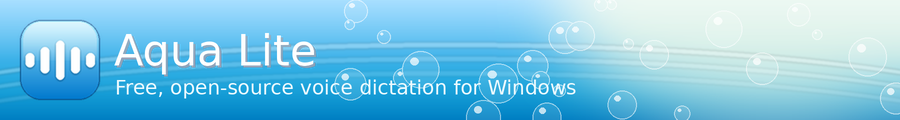
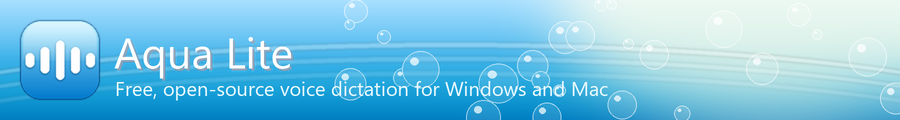
2.0 New Generation Update: one-step Mac install, Mac download in releases
- install-mac.sh sets up Python 3.12 from python.org when it's missing, can run
  on its own (curl | bash fetches the Mac download), and has a CI mode.
- Install Aqua Lite.command: double-click installer in the Mac download.
- Release workflow builds AquaLite-Mac.zip and uploads fixed-name copies
  (AquaLite-Setup.exe, AquaLite-Mac.zip) so the README buttons never 404.
- Mac check workflow runs the installer and self-test on GitHub's macOS runner.
- README: Windows and Mac download buttons; banner mentions Mac.

Changed region(s): [[0.1244, 0.275, 0.6844, 0.825]]

diff --git a/docs/make_images.py b/docs/make_images.py
@@ -10,7 +10,8 @@ from aqualite import aero, skin  # noqa: E402
 
 
 def banner():
-    aero.sky_banner(900, 120, subtitle="Free, open-source voice dictation for Windows").save(os.path.join(HERE, "banner.png"))
+    aero.sky_banner(900, 120, subtitle="Free, open-source voice dictation for Windows and Mac").save(
+        os.path.join(HERE, "banner.png"))
 
 
 def flow_bar():
@@ -36,13 +37,12 @@ def flow_bar():
     bg.save(os.path.join(HERE, "flow-bar.png"))
 
 
-def download_button():
-    """The README's download button: the app's own glossy aqua button, drawn at 2x for sharp screens."""
+def download_button(text="Download for Windows", name="download.png"):
+    """A README download button: the app's own glossy aqua button, drawn at 2x for sharp screens."""
     from PIL import Image, ImageDraw, ImageFilter
     w, h = 600, 120
     img = skin.button(w, h, "normal", primary=True)
     font = aero._font_px(40)
-    text = "Download for Windows"
     tw = font.getlength(text)
     icon = 34
     x = (w - (icon + 22 + tw)) / 2
@@ -60,11 +60,12 @@ def download_button():
     shade.putalpha(words.getchannel("A").point(lambda v: v * 150 // 255).filter(ImageFilter.GaussianBlur(1.5)))
     img.alpha_composite(shade, (0, 2))
     img.alpha_composite(words)
-    img.save(os.path.join(HERE, "download.png"))
+    img.save(os.path.join(HERE, name))
 
 
 if __name__ == "__main__":
     banner()
     flow_bar()
     download_button()
-    print("docs/banner.png, docs/flow-bar.png and docs/download.png updated")
+    download_button("Download for Mac", "download-mac.png")
+    print("docs/banner.png, docs/flow-bar.png, docs/download.png and docs/download-mac.png updated")

diff --git a/README.md b/README.md
@@ -2,15 +2,17 @@
 
 # Aqua Lite
 
-Free, open-source voice dictation for Windows, in a classic Frutiger Aero look or clear Liquid Glass.
-Hold **Ctrl + Win**, speak, let go: clean, punctuated text appears wherever your cursor is, in WhatsApp, Gmail, Slack, Word, VS Code, ChatGPT or any other app.
+Free, open-source voice dictation for Windows and Mac, in a classic Frutiger Aero look or clear Liquid Glass.
+Hold **Ctrl + Win** (on a Mac, **Fn**), speak, let go: clean, punctuated text appears wherever your cursor is, in WhatsApp, Gmail, Slack, Word, VS Code, ChatGPT or any other app.
 
 <p align="center">
   <a href="https://github.com/undeadhuman37/aqua-lite/releases/latest/download/AquaLite-Setup.exe">
-    <img src="docs/download.png" alt="Download for Windows" width="300">
-  </a>
+    <img src="docs/download.png" alt="Download for Windows" width="300"></a>
+  <a href="https://github.com/undeadhuman37/aqua-lite/releases/latest/download/AquaLite-Mac.zip">
+    <img src="docs/download-mac.png" alt="Download for Mac" width="300"></a>
   <br>
-  <sub>Free for Windows 10 and 11 &middot; <a href="https://github.com/undeadhuman37/aqua-lite/releases/latest">All downloads and release notes</a></sub>
+  <sub>Free for Windows 10 and 11 and macOS 11 or later &middot;
+  <a href="https://github.com/undeadhuman37/aqua-lite/releases/latest">All downloads and release notes</a></sub>
 </p>
 
 Aqua Lite is an independent project inspired by how [Wispr Flow](https://wisprflow.ai) works. It is built from the public
@@ -62,21 +64,23 @@ Aqua Lite updates itself: every time it starts, it checks GitHub for a newer ver
 (you'll see "Updated to ..." at the bottom of the screen). You can also pick **Check for updates** from the tray menu,
 or turn automatic updates off in Settings. Running `install.bat` again also updates. To remove everything, run `uninstall.bat`.
 
-## Install (macOS, preview)
+## Install (macOS 11 or later)
 
-Mac support is new and **hasn't been tried on a Mac yet**. If you have one, testing it helps a lot: the checklist is in
-[docs/MAC.md](docs/MAC.md).
-
-1. Install Python 3.12 from [python.org](https://www.python.org/downloads/macos/) (it includes Tk).
-2. Download this repository, open Terminal in its folder and run `bash install-mac.sh`. It sets up a private environment in
-   `~/Library/Application Support/AquaLite`, runs the self-test and adds **Aqua Lite** to your Applications folder.
-3. Open Aqua Lite. macOS asks for **Accessibility**, **Input Monitoring** and the **microphone**: allow each one, then quit
+1. Download **[AquaLite-Mac.zip](https://github.com/undeadhuman37/aqua-lite/releases/latest/download/AquaLite-Mac.zip)**,
+   open it, and double-click **Install Aqua Lite**. It sets up everything, including Python if you don't have it
+   (macOS asks for your password once for that), and adds **Aqua Lite** to your Applications folder.
+   - If macOS says it can't check the app: open **System Settings > Privacy & Security**, scroll down and click
+     **Open Anyway**. The app isn't notarized by Apple yet.
+   - Or skip the download and paste this into Terminal:
+     `curl -fsSL https://raw.githubusercontent.com/undeadhuman37/aqua-lite/main/install-mac.sh | bash`
+2. Open Aqua Lite. macOS asks for **Accessibility**, **Input Monitoring** and the **microphone**: allow each one, then quit
    and reopen it. Aqua Lite lives in the menu bar.
-4. Hold **Fn** (the globe key) and talk; `Fn + Space` is hands-free and `Fn + Cmd` is Command Mode. Keyboards without Fn
-   can use `ctrl+option` (Settings > Dictation). Set **System Settings > Keyboard > Press fn key to** to **Do Nothing**.
+3. Hold **Fn** (the globe key) and talk.
+   `Fn + Space` is hands-free and `Fn + Cmd` is Command Mode. Keyboards without Fn can use `ctrl+option`
+   (Settings > Dictation). Set **System Settings > Keyboard > Press fn key to** to **Do Nothing**.
 
-The app isn't signed or notarized yet (that needs an Apple Developer account), so it's installed from source rather than
-as a download. To remove it, run `bash uninstall-mac.sh`.
+Aqua Lite updates itself on a Mac too. Mac support is new: if something doesn't work, the checklist in
+[docs/MAC.md](docs/MAC.md) helps, and an issue on GitHub helps even more. To remove it, run `bash uninstall-mac.sh`.
 
 ## Shortcuts
 

diff --git a/CLAUDE.md b/CLAUDE.md
@@ -105,13 +105,12 @@ Outside `aqualite/`: `install.bat` / `uninstall.bat` and `installer/` (Windows),
 Also on `v2`: the clipboard is restored only after the paste has landed (`osapi/common.restore_when_pasted`), which
 fixed long dictations pasting the user's old clipboard.
 
-## Still open before releasing 2.0
+## Release
 
-- The owner hasn't yet dictated with private mode switched on (the model download itself works).
-- Confirm on Windows: blur lines up behind the Flow bar, white text readable over white apps, title bar tinted on
-  Windows 11, graphics-card Flow bar active (and CPU lower) once `moderngl` has installed itself.
-- Confirm on Windows: Liquid Glass Settings in light and dark (title bar, dropdown lists, History table), the Flow
-  bar morph and the blur behind the caption bubble.
-- `VERSION` is 2.0.0 on `v2` and the CHANGELOG/README entries are written. Release only when the owner approves:
-  run the self-test, push to `main`, confirm the installer build.
-- Mac: needs a Mac tester (`docs/MAC.md`) before it's announced.
+2.0.0 "New Generation Update" was released from `v2` to `main` with the owner's approval. A VERSION change on `main`
+runs `.github/workflows/installer.yml`: the Windows installer plus `AquaLite-Mac.zip`, with fixed-name copies
+(`AquaLite-Setup.exe`, `AquaLite-Mac.zip`) that the README buttons link to through `releases/latest/download/`.
+`mac-check.yml` runs the Mac installer and self-test on GitHub's macOS runner.
+
+Still to confirm: dictating with private mode on (the download works since the llama.cpp pre-release fix). Windows 11
+can't blur behind a rounded shape, so the Flow bar has no blur window there (`winapi.Frost.shapes_ok`).

diff --git a/CHANGELOG.md b/CHANGELOG.md
@@ -3,8 +3,11 @@
 Headings are `## <version>` or `## <version> - <update name>`. The first line under each heading is what the app
 shows once after updating (keep it under 52 characters).
 
-## 2.0.0 - Liquid Glass Update
-a new look, words as you talk, and a private mode
+## 2.0.0 - New Generation Update
+now on Mac, with a new look and words as you talk
+- **Now on Mac:** download `AquaLite-Mac.zip` and double-click **Install Aqua Lite**. It sets up everything, Python
+  included, and puts Aqua Lite in your menu bar. Hold Fn (the globe key) and talk. Mac support is brand new, so tell
+  us if anything feels off.
 - **Two looks:** keep the classic Frutiger Aero, or switch to Liquid Glass in Settings > Dictation > Theme. Liquid
   Glass is clear glass with a bright rim, in light, dark or matching Windows, and the preview shows it before you save.
 - **The Flow bar flows:** in Liquid Glass it springs open, melts from shape to shape, breathes while it thinks, and the

diff --git a/docs/MAC.md b/docs/MAC.md
@@ -1,7 +1,12 @@
 # Aqua Lite on a Mac
 
-Mac support is written but **has never been run on a Mac**. It was built on Windows without one. This page
-says what's done, what has actually been checked, and what a Mac tester should try.
+Mac support is new in 2.0. It was written on Windows and the owner has since run it on a MacBook; GitHub also runs
+the installer and self-test on a Mac with every change (`.github/workflows/mac-check.yml`). This page says how it
+fits together, which parts have been checked how, and what to try when something misbehaves.
+
+Install: double-click **Install Aqua Lite.command** in `AquaLite-Mac.zip`, or
+`curl -fsSL https://raw.githubusercontent.com/undeadhuman37/aqua-lite/main/install-mac.sh | bash`. The installer sets
+up Python 3.12 from python.org when it's missing.
 
 ## How it fits together
 
